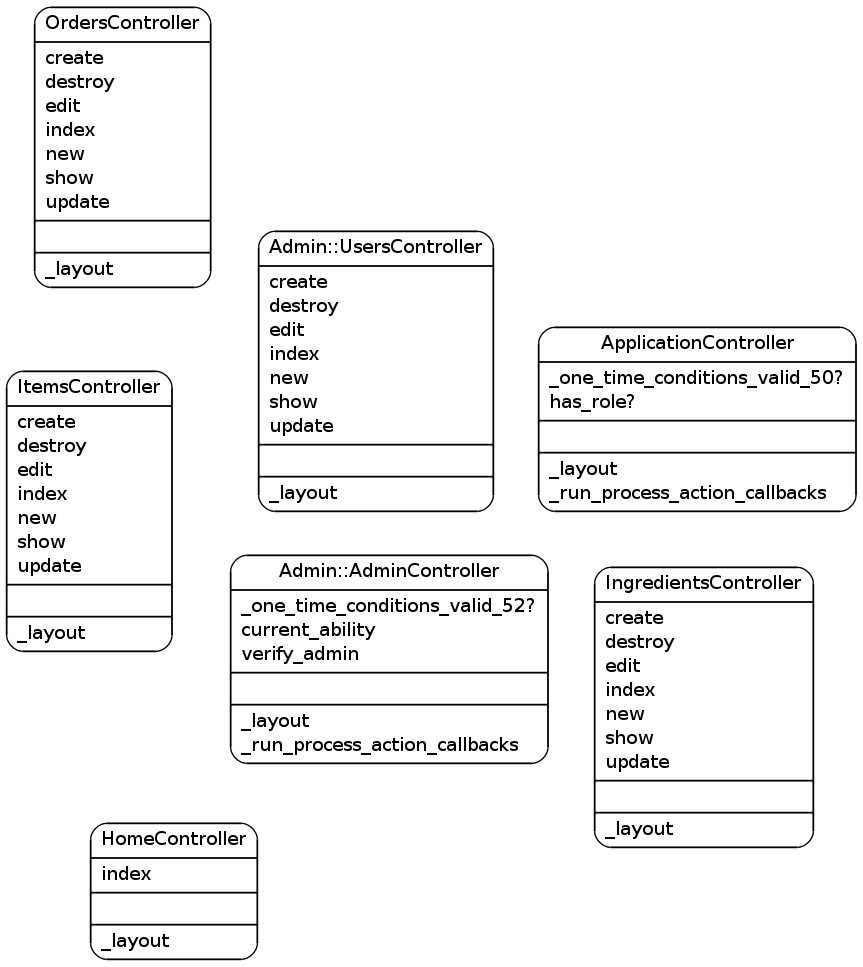
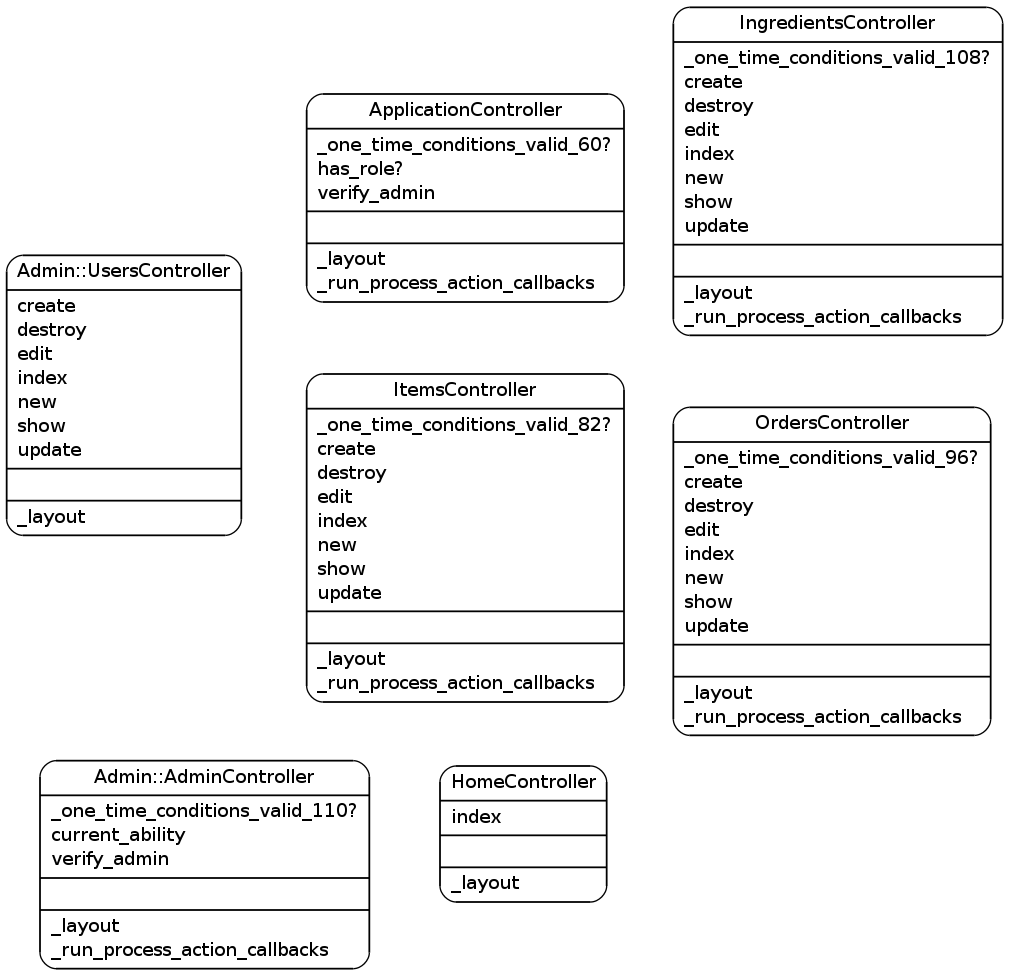
commit in the branch fixNoMethodError

Changed region(s): [[0.0, 0.0, 1.0, 1.0], [0.1808, 0.5895, 0.2109, 0.6515]]

diff --git a/db/seeds.rb b/db/seeds.rb
@@ -7,5 +7,6 @@
 #   Mayor.create(name: 'Emanuel', city: cities.first)
 
 
-roles = Role.create([{id: 1, name: "root"},{id: 2, name: "admin"},{id: 3, name: "registered"},
+Role.create([{id: 1, name: "root"},{id: 2, name: "admin"},{id: 3, name: "registered"},
   {id: 4,name: "guest"}])
+  

diff --git a/features/step_definitions/user_definition.rb b/features/step_definitions/user_definition.rb
@@ -52,7 +52,10 @@ Given /^I should see link to (.+)/ do |link|
 end
 
 Given /^I am not logged in$/ do
-  visit '/users/sign_out'
+  #visit '/users/sign_out'
+  if page.has_content?("Logout") 
+    click_link("Logout") 
+  end
 end
 
 Given /^I am logged in$/ do

diff --git a/app/controllers/ingredients_controller.rb b/app/controllers/ingredients_controller.rb
@@ -2,7 +2,6 @@ class IngredientsController < ApplicationController
   # GET /ingredients
   # GET /ingredients.json  
   
-  before_filter :verify_admin
   
   def index
     @ingredients = Ingredient.all

diff --git a/features/support/paths.rb b/features/support/paths.rb
@@ -13,7 +13,7 @@ module NavigationHelpers
   def path_to(page_name)
     case page_name
 
-    when /^the home\s?page$/
+    when /^the "home page"$/
       '/'
 
     when /^the (.+) page$/

diff --git a/app/controllers/application_controller.rb b/app/controllers/application_controller.rb
@@ -1,5 +1,6 @@
 class ApplicationController < ActionController::Base
   protect_from_forgery
+  before_filter :verify_admin, :except =>:index
 
   def verify_admin
     :authenticate_user!

diff --git a/app/controllers/orders_controller.rb b/app/controllers/orders_controller.rb
@@ -2,7 +2,6 @@ class OrdersController < ApplicationController
   # GET /orders
   # GET /orders.json
   
-  before_filter :verify_admin
     
   def index
     @orders = Order.all

diff --git a/app/controllers/items_controller.rb b/app/controllers/items_controller.rb
@@ -1,7 +1,7 @@
 class ItemsController < ApplicationController
   # GET /items
   # GET /items.json
-  before_filter :verify_admin
+  
   
   def index
     @items = Item.all

diff --git a/app/controllers/admin/admin_controller.rb b/app/controllers/admin/admin_controller.rb
@@ -11,4 +11,3 @@ class Admin::AdminController < ApplicationController
     @current_ability ||= AdminAbility.new(current_user)
   end
 end
-

diff --git a/spec/factories/role.rb b/spec/factories/role.rb
@@ -1,5 +1,5 @@
 FactoryGirl.define do
   factory :role do
-    id 1 
+    id 2
   end
 end
